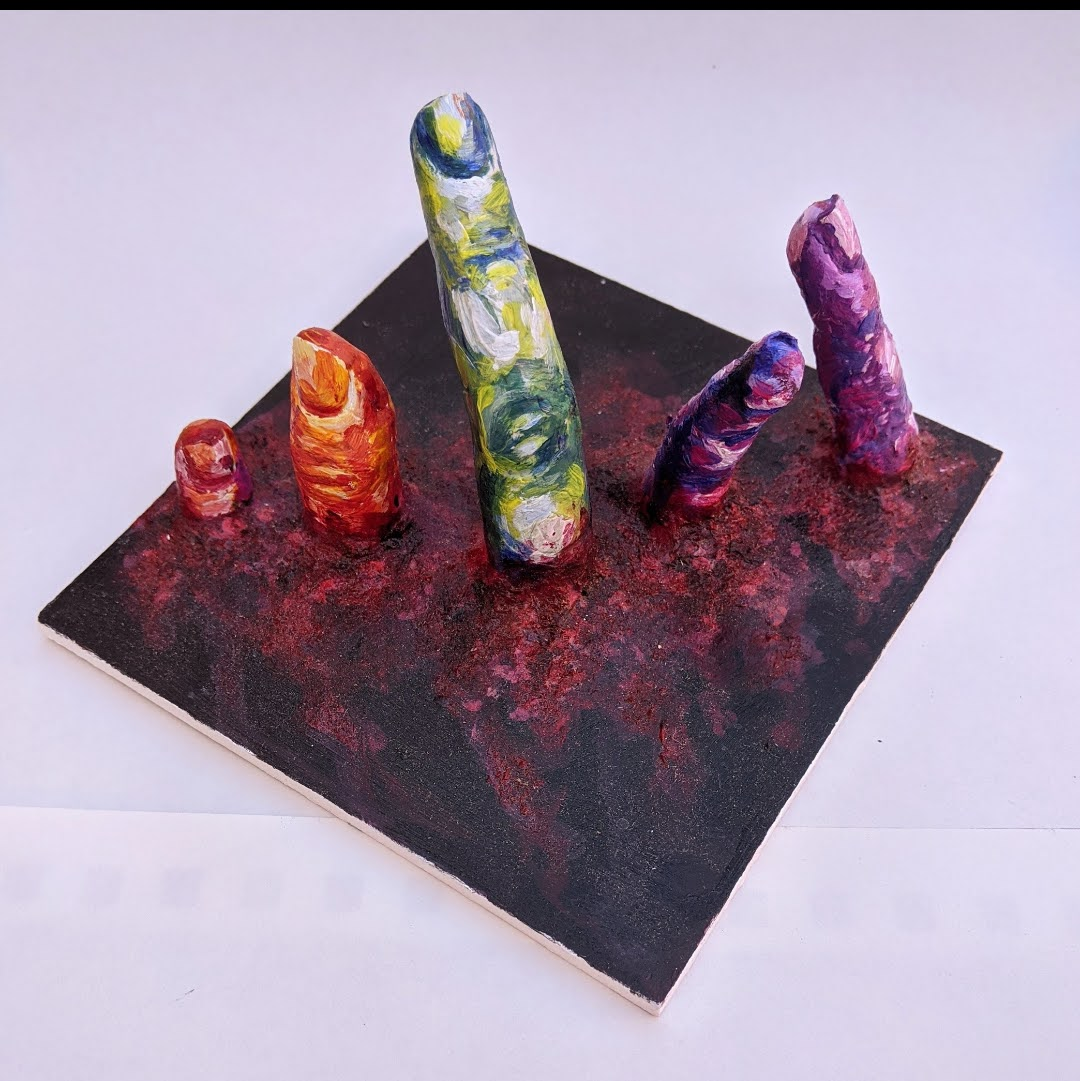
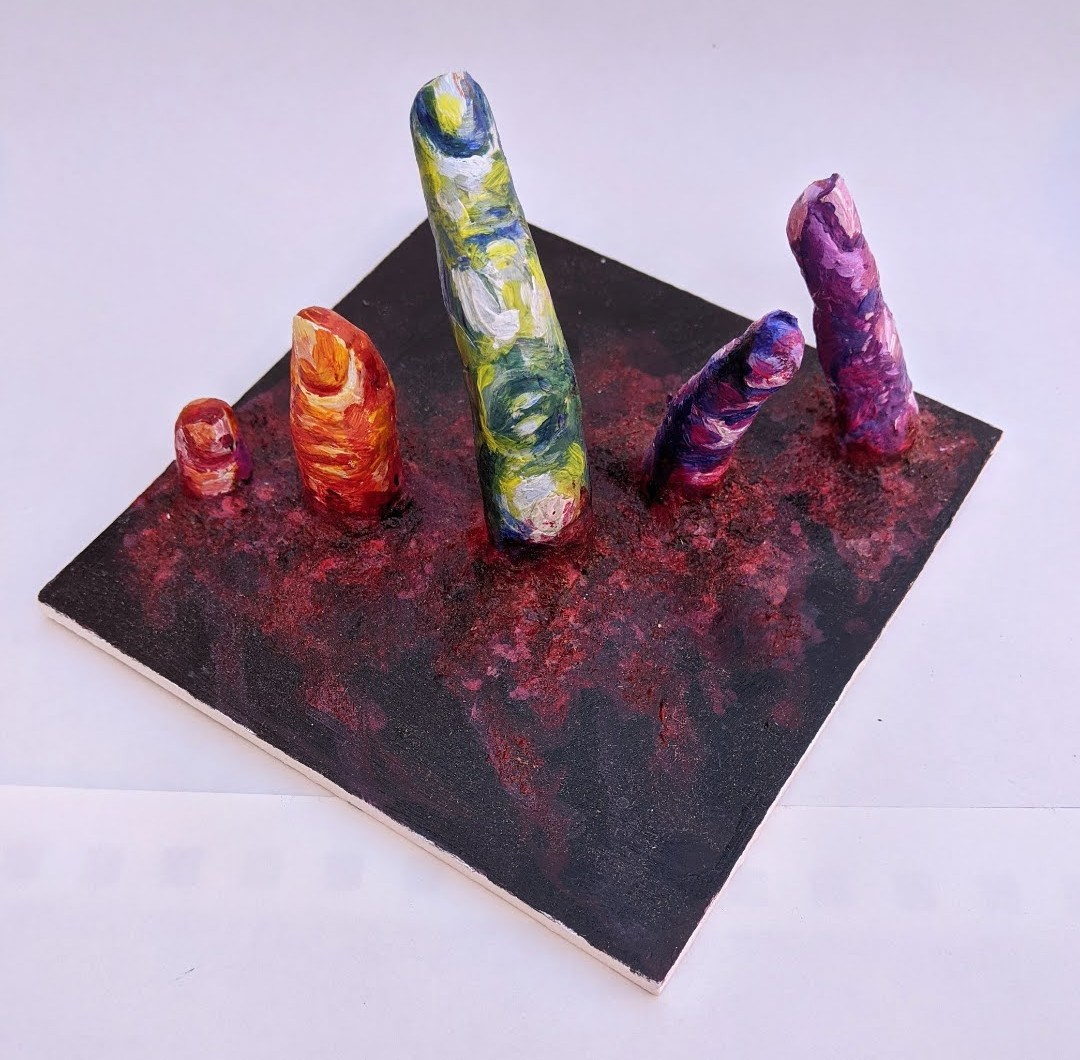
FILE NAMES AGAIN

diff --git a/art.html b/art.html
@@ -46,7 +46,7 @@
 
         <!-- ===== ARTWORK 1 — copy this whole figure to add another ===== -->
         <figure class="artwork">
-          <img src="images/art/Vase_A.jpg" alt="Vase_A">
+          <img src="images/art/Vase_A.png" alt="Vase_A">
           <figcaption>
             <strong>Vase A</strong><br>
             2025 — Stoneware, Glaze
@@ -64,7 +64,7 @@
 
         <!-- ===== ARTWORK 2 ===== -->
         <figure class="artwork">
-         <img src="images/art/Fingers.png" alt="Fingers">
+         <img src="images/art/Fingers.jpg" alt="Fingers">
           <figcaption>
             <strong>Fingers</strong><br>
             2020 — plaster of paris, acrylic, latex
